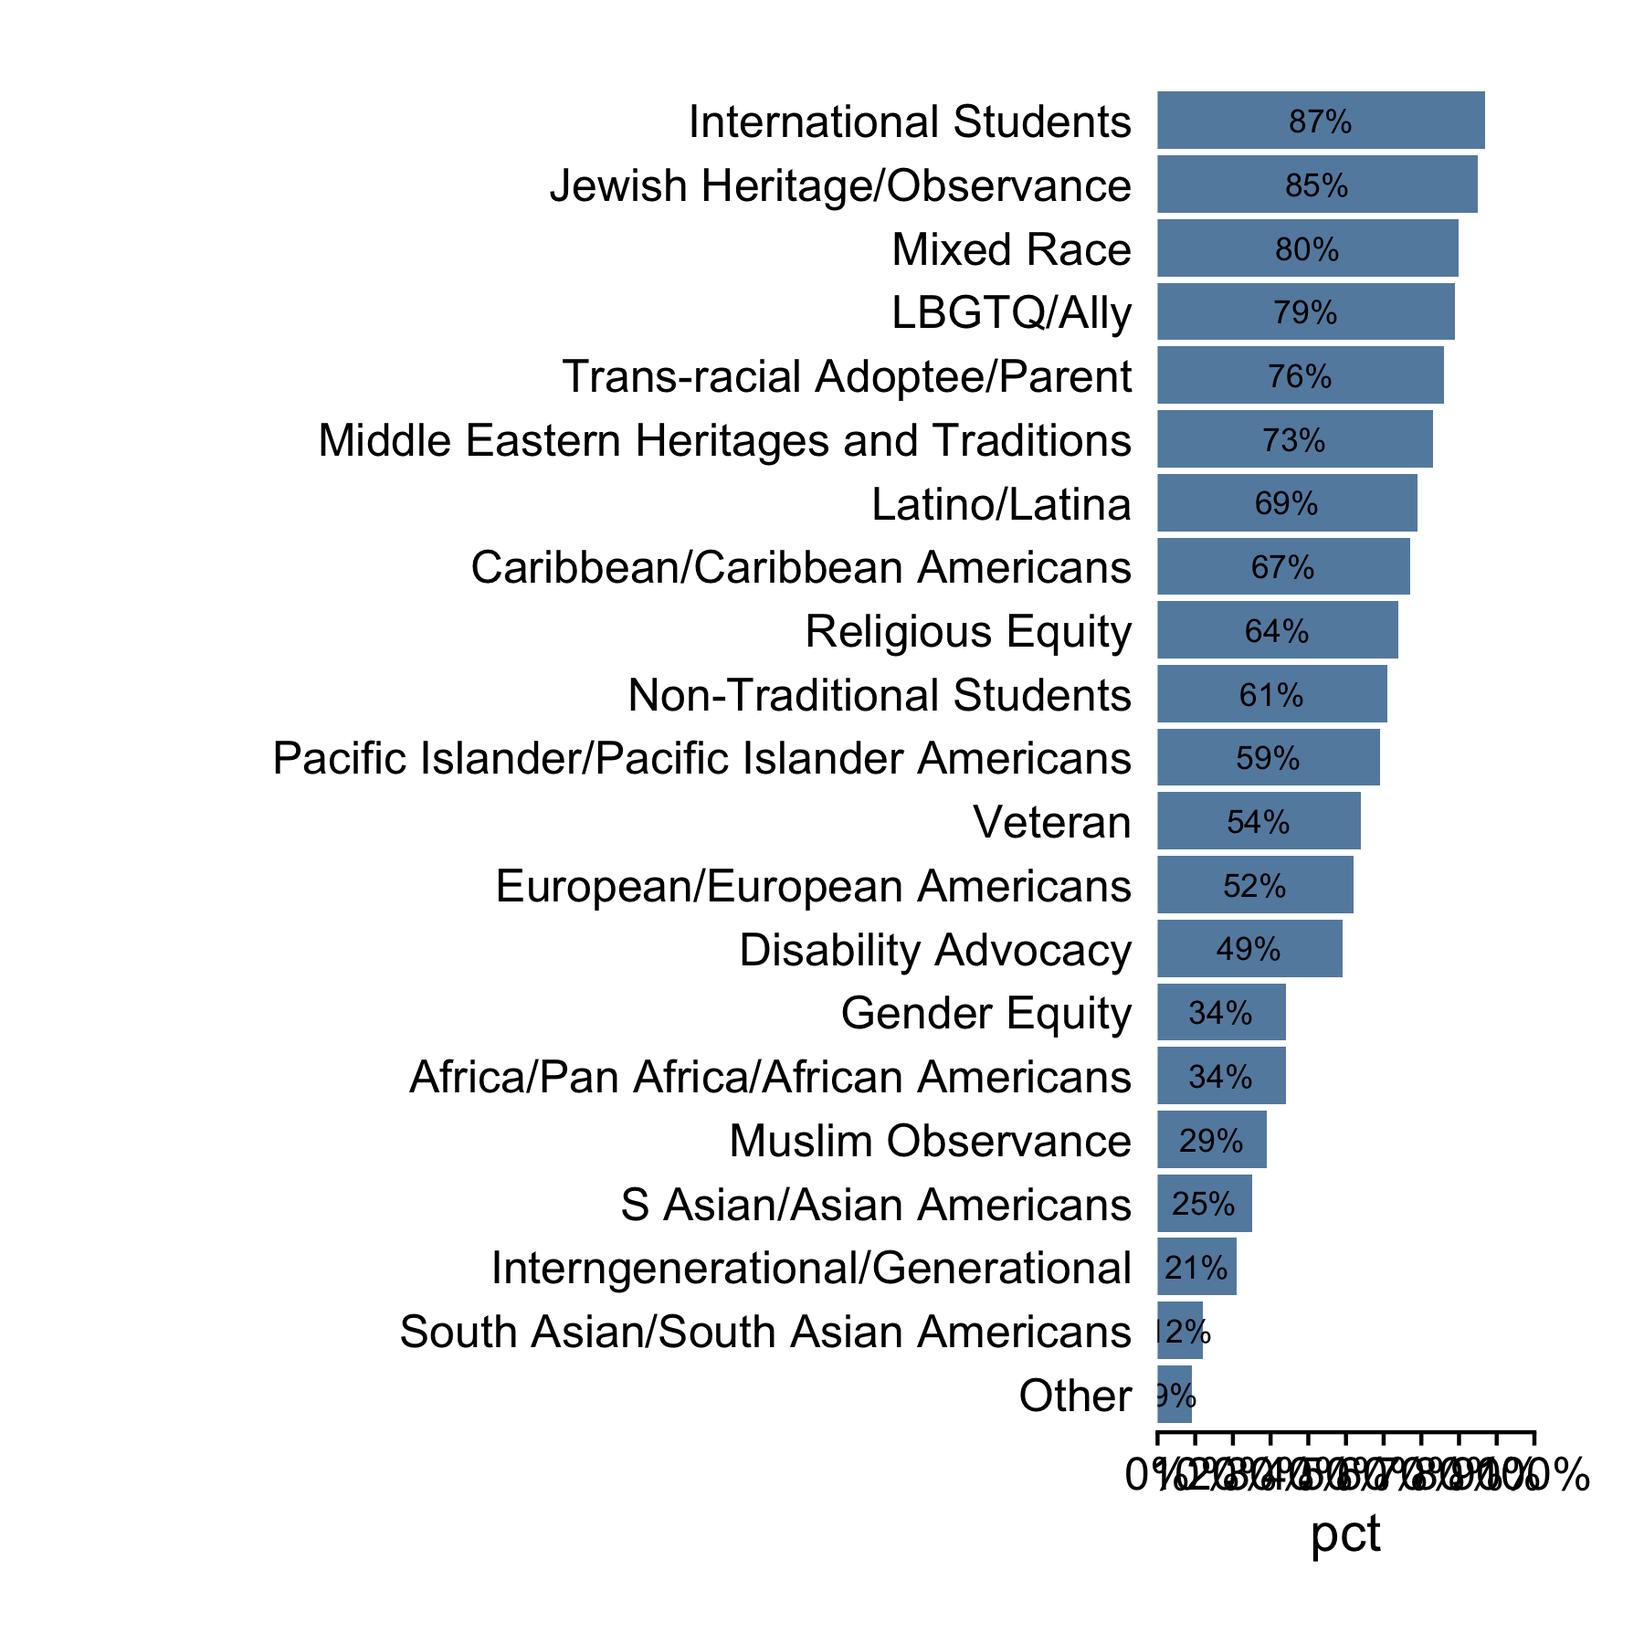
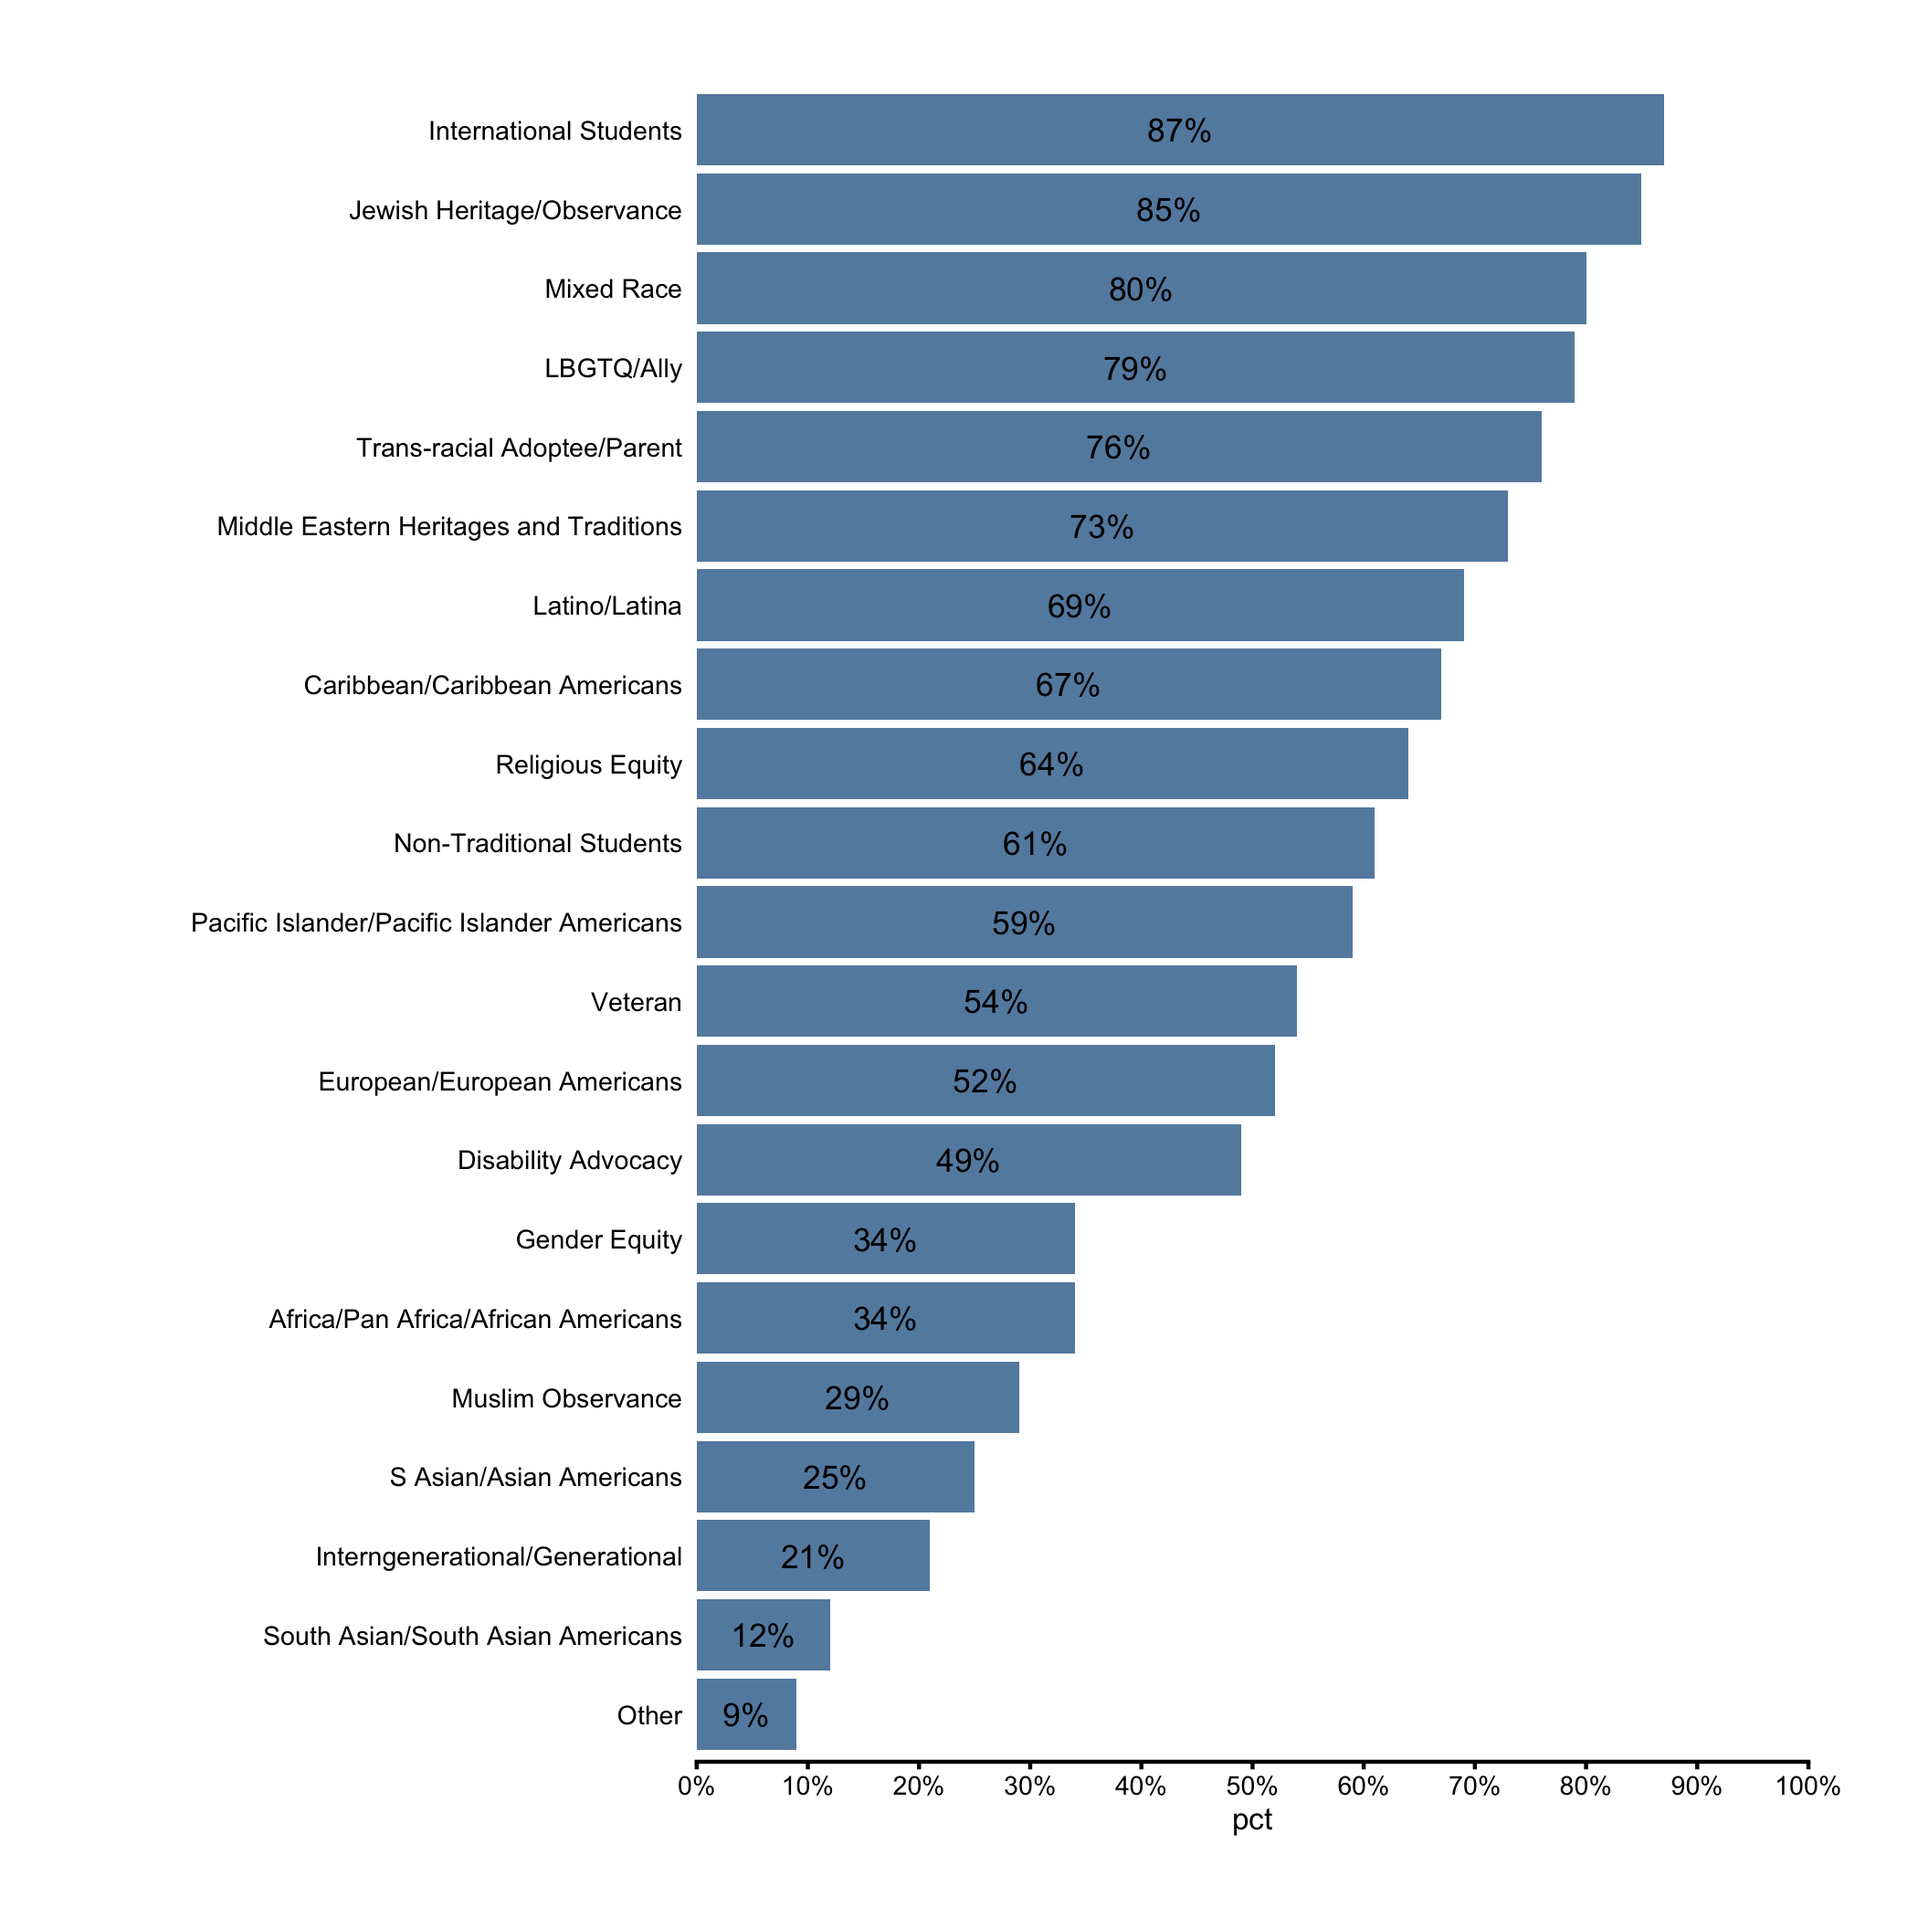
no message

diff --git a/manuscript/04-03-horizontal-barplot-n-lollipop.md b/manuscript/04-03-horizontal-barplot-n-lollipop.md
@@ -81,7 +81,7 @@ plt("boxoffice", "mpaa", yorder = "descend", label_decimals = 0,
 ```r
 plt("votes", "mpaa", fillby = "made_money", label_size = 0, 
     font_size = 8, legend_pos = "top") %>% 
-        rotate_axis_text(15)
+        rotate_axis_text(20)
 ```
 
 ![](images/barploth_dodged_p3-1.png)
@@ -120,7 +120,8 @@ df$category = reorder(df$category, df$pct)
 
 ```r
 plt = mk_barploth_resp(df)
-plt("pct", "category", yorder = "descend", show_pct = TRUE, label_decimals = 0)
+plt("pct", "category", yorder = "descend", show_pct = TRUE, label_decimals = 0,
+    font_size = 8)
 ```
 
 ![](images/barploth_vs_lollipop_p1-1.png)
@@ -128,7 +129,8 @@ plt("pct", "category", yorder = "descend", show_pct = TRUE, label_decimals = 0)
 
 ```r
 plt = mk_lollipop(df)
-plt("pct", "category", yorder = "descend", show_pct = TRUE, label_decimals = 0)
+plt("pct", "category", yorder = "descend", show_pct = TRUE, label_decimals = 0,
+    font_size = 8)
 ```
 
 ![](images/barploth_vs_lollipop_p2-1.png)
